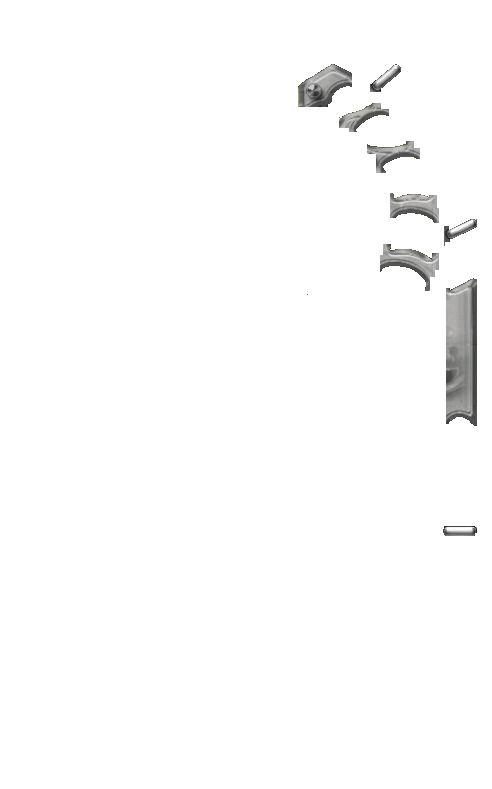
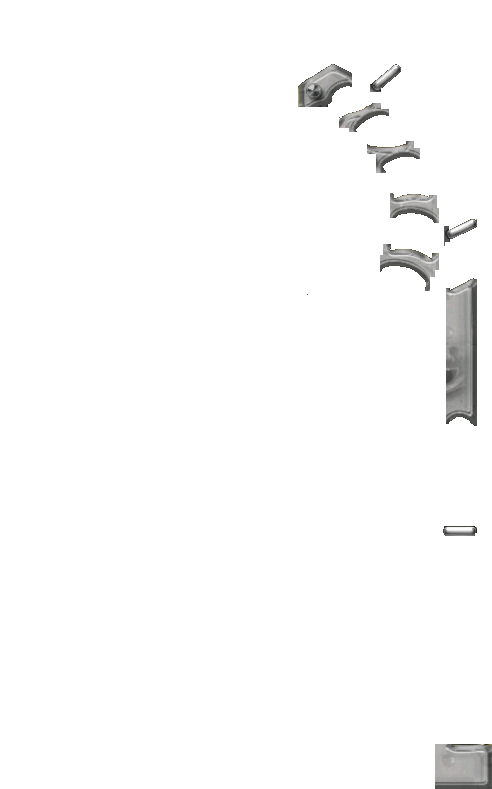
added spring texture

Changed region(s): [[0.8841, 0.943, 1.0, 1.0]]

diff --git a/Physics Pinball/ModuleSceneIntro.cpp b/Physics Pinball/ModuleSceneIntro.cpp
@@ -10,7 +10,7 @@
 
 ModuleSceneIntro::ModuleSceneIntro(Application* app, bool start_enabled) : Module(app, start_enabled)
 {
-	circle = box = rick = NULL;
+	circle = NULL;
 	ray_on = false;
 
 }
@@ -27,10 +27,10 @@ bool ModuleSceneIntro::Start()
 	App->renderer->camera.x = App->renderer->camera.y = 0;
 
 	circle = App->textures->Load("pinball/wheel.png"); 
-	box = App->textures->Load("pinball/crate.png");
-	rick = App->textures->Load("pinball/rick_head.png");
 	pinball_tex = App->textures->Load("pinball/Pinball small.png");
+	upper_pinball_tex = App->textures->Load("pinball/UperLayer.png");
 	flipper_tex = App->textures->Load("pinball/flipper.png");
+	spring_tex = App->textures->Load("pinball/spring.png");
 
 	pinball_rect = App->physics->CreateRectangle(492/2, 798/2, 492, 798, b2_staticBody, false);
 
@@ -52,6 +52,7 @@ bool ModuleSceneIntro::Start()
 	dyingSensor = App->physics->CreateRectangleSensor(200, 850, 700, 100);
 
 	bonus_fx = App->audio->LoadFx("pinball/bonus.wav");
+	flipper_fx = App->audio->LoadFx("pinball/flipper.wav");
 
 	ball_active = false;
 	maintainBallStopped = false;
@@ -70,13 +71,6 @@ bool ModuleSceneIntro::CleanUp()
 // Update: draw background
 update_status ModuleSceneIntro::Update()
 {
-	/*if(App->input->GetKey(SDL_SCANCODE_SPACE) == KEY_DOWN)
-	{
-		ray_on = !ray_on;
-		ray.x = App->input->GetMouseX();
-		ray.y = App->input->GetMouseY();
-	}*/
-
 	if(App->input->GetKey(SDL_SCANCODE_1) == KEY_DOWN)
 	{
 		App->player->score = 0;
@@ -88,11 +82,13 @@ update_status ModuleSceneIntro::Update()
 
 	if (App->input->GetKey(SDL_SCANCODE_RIGHT) == KEY_DOWN)
 	{
+		App->audio->PlayFx(flipper_fx);
 		Rflipper_rectangle->body->ApplyTorque(500, true);
 	}
 
 	if (App->input->GetKey(SDL_SCANCODE_LEFT) == KEY_DOWN)
 	{
+		App->audio->PlayFx(flipper_fx);
 		Lflipper_rectangle->body->ApplyTorque(-500, true);
 	}
 
@@ -127,6 +123,9 @@ update_status ModuleSceneIntro::Update()
 	pinball_rect->GetPosition(x, y);
 	App->renderer->Blit(pinball_tex, x, y, NULL, 1.0f);
 
+	spring->GetPosition(x, y);
+	App->renderer->Blit(spring_tex, x, y, NULL, 1.0f);
+
 	Lflipper_circle->GetPosition(x, y);
 	App->renderer->Blit(flipper_tex, x - 75, y - 15, NULL, 1.0f, Lflipper_rectangle->GetRotation());
 	Rflipper_circle->GetPosition(x, y);
@@ -134,8 +133,11 @@ update_status ModuleSceneIntro::Update()
 
 	if(App->player->ball)App->renderer->Blit(circle, App->player->ballPossition.x, App->player->ballPossition.y, NULL, 1.0F, App->player->ball->GetRotation());
 
+	pinball_rect->GetPosition(x, y);
+	App->renderer->Blit(upper_pinball_tex, x, y, NULL, 1.0f);
+
 	// ray -----------------
-	if(ray_on == true)
+	/*if(ray_on == true)
 	{
 		fVector destination(mouse.x-ray.x, mouse.y-ray.y);
 		destination.Normalize();
@@ -145,36 +147,14 @@ update_status ModuleSceneIntro::Update()
 
 		if(normal.x != 0.0f)
 			App->renderer->DrawLine(ray.x + destination.x, ray.y + destination.y, ray.x + destination.x + normal.x * 25.0f, ray.y + destination.y + normal.y * 25.0f, 100, 255, 100);
-	}
+	}*/
 
 	return UPDATE_CONTINUE;
 }
 
 void ModuleSceneIntro::OnCollision(PhysBody* bodyA, PhysBody* bodyB)
 {
-	App->player->score += bodyB->score;
-	
-	if (bodyA == hole_1 || bodyA == hole_2)
-	{
-		App->player->toDestroy = true;
-		maintainBallStopped = true;
-		initial_time = SDL_GetTicks();
-	}
 
-	//App->audio->PlayFx(bonus_fx);
-
-	/*
-	if(bodyA)
-	{
-		bodyA->GetPosition(x, y);
-		App->renderer->DrawCircle(x, y, 50, 100, 100, 100);
-	}
-
-	if(bodyB)
-	{
-		bodyB->GetPosition(x, y);
-		App->renderer->DrawCircle(x, y, 50, 100, 100, 100);
-	}*/
 }
 
 

diff --git a/Physics Pinball/ModuleSceneIntro.h b/Physics Pinball/ModuleSceneIntro.h
@@ -20,9 +20,6 @@ public:
 	void Stopped_ball_timer();
 
 public:
-	p2List<PhysBody*> boxes;
-	p2List<PhysBody*> ricks;
-
 	PhysBody* pinball_rect;
 	PhysBody* spring;
 	PhysBody* springPivot;
@@ -56,11 +53,12 @@ public:
 	PhysBody* light;
 
 	SDL_Texture* circle;
-	SDL_Texture* box;
-	SDL_Texture* rick;
 	SDL_Texture* pinball_tex;
+	SDL_Texture* upper_pinball_tex;
 	SDL_Texture* flipper_tex;
+	SDL_Texture* spring_tex;
 	uint bonus_fx;
+	uint flipper_fx;
 	p2Point<int> ray;
 	bool ray_on;
 	bool ball_active;

diff --git a/Physics Pinball/ModulePlayer.cpp b/Physics Pinball/ModulePlayer.cpp
@@ -2,6 +2,7 @@
 #include "Application.h"
 #include "ModulePlayer.h"
 #include "ModulePhysics.h"
+#include "ModuleAudio.h"
 #include "ModuleSceneIntro.h"
 #include "ModuleWindow.h"
 #include "p2SString.h"
@@ -92,6 +93,8 @@ void ModulePlayer::SpawnNextBall()
 
 void ModulePlayer::OnCollision(PhysBody* bodyA, PhysBody* bodyB)
 {
+	App->audio->PlayFx(App->scene_intro->bonus_fx);
+
 	App->player->score += bodyB->score;
 
 	if (bodyB == App->scene_intro->dyingSensor || bodyA == App->scene_intro->dyingSensor)

diff --git a/Physics Pinball/ModulePhysics.cpp b/Physics Pinball/ModulePhysics.cpp
@@ -736,7 +736,7 @@ update_status ModulePhysics::PostUpdate()
 	if(App->input->GetKey(SDL_SCANCODE_F1) == KEY_DOWN)
 		debug = !debug;
 
-	if(!debug)
+	if(debug)
 		return UPDATE_CONTINUE;
 
 	// Bonus code: this will iterate all objects in the world and draw the circles
